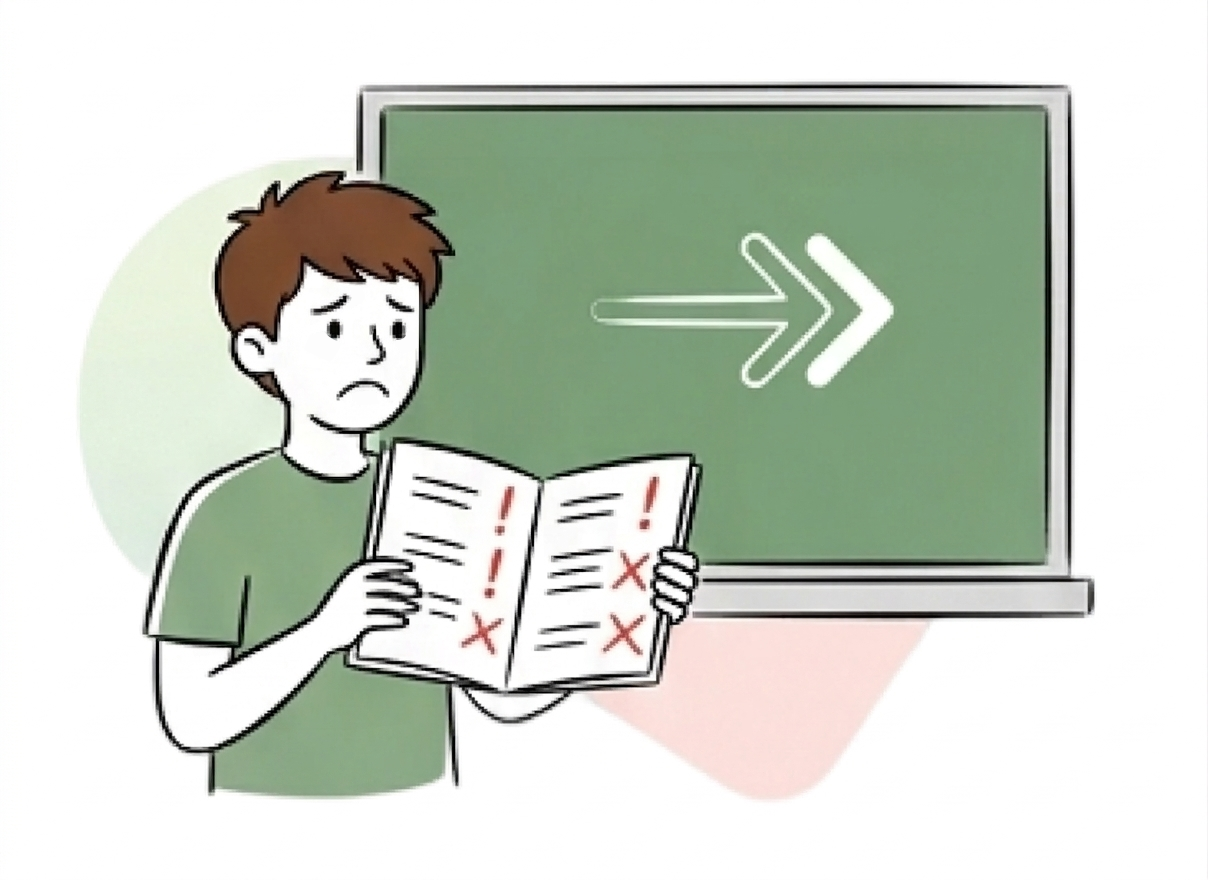
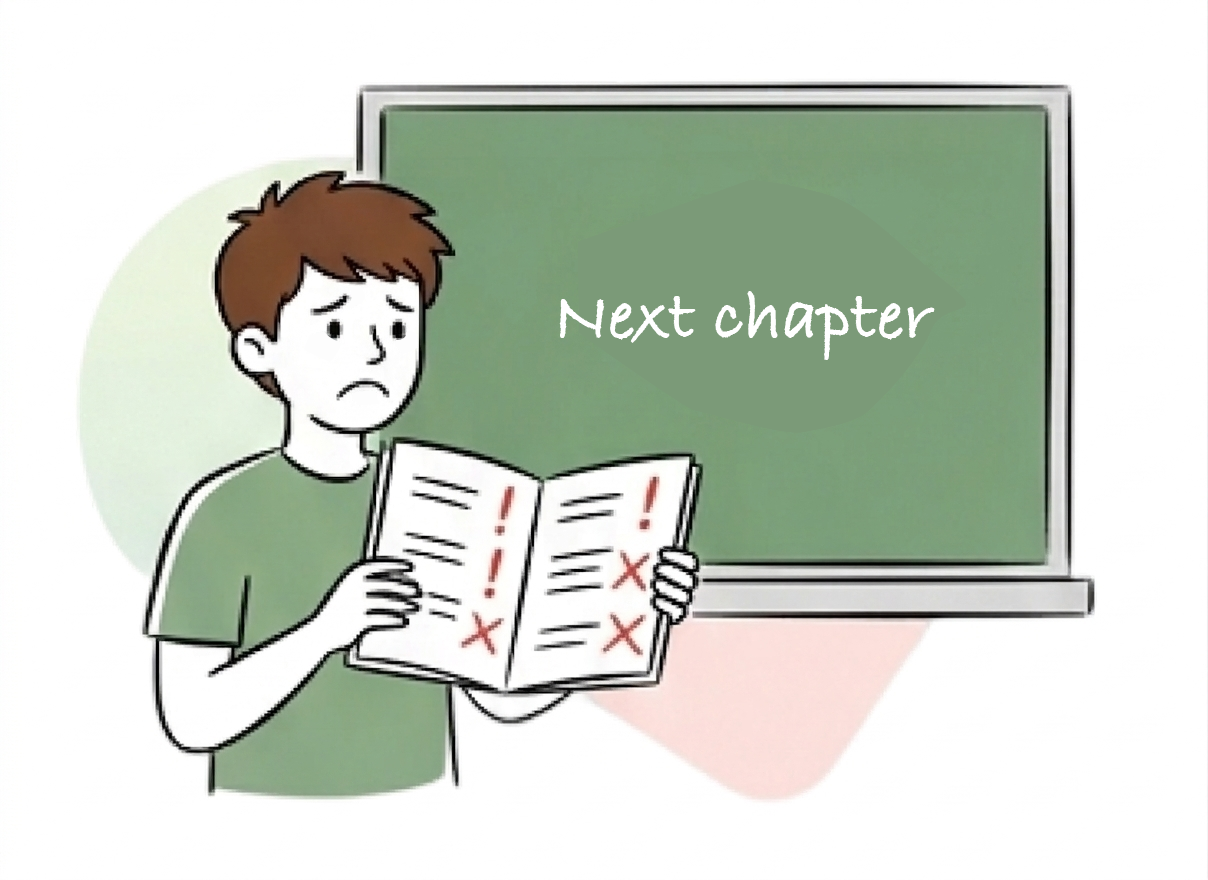
DisconnectedSteps: update illustration 4, capitalize 'Feedback'

Changed region(s): [[0.4594, 0.2455, 0.7657, 0.4602]]

diff --git a/src/components/DisconnectedSteps/DisconnectedSteps.jsx b/src/components/DisconnectedSteps/DisconnectedSteps.jsx
@@ -24,7 +24,7 @@ const STEPS = [
     imageLeft: true,
   },
   {
-    title: 'feedback arrives late',
+    title: 'Feedback arrives late',
     body: 'Class already moved on',
     img: '/assets/illus-step-4-new.png',
     imageLeft: false,
